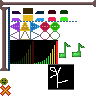
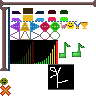
Persist high score

Changed region(s): [[0.625, 0.2188, 0.9375, 0.3125]]

diff --git a/src/main/highscore.c b/src/main/highscore.c
@@ -1,0 +1,124 @@
+#include "highscore.h"
+
+#if PO_NATIVE
+  #include <stdlib.h>
+  #include <stdio.h>
+  #include <fcntl.h>
+  #include <unistd.h>
+  #include <sys/stat.h>
+  
+#else
+  #include "tinysd.h"
+#endif
+
+/* Globals.
+ */
+ 
+/* Each record is:
+ *   u16 songid
+ *   u8 medal
+ *   u24 score
+ * big-endian
+ */
+#define RECORD_SIZE 6
+#define RECORD_LIMIT 10 /* Needn't be any more than the count of included songs. */
+static uint8_t highscore_content[RECORD_SIZE*RECORD_LIMIT];
+static uint8_t highscore_count=0; // in records
+
+/* Path for native builds.
+ */
+ 
+#if PO_NATIVE
+  static char highscore_path_storage[1024];
+  static const char *highscore_path() {
+    const char *home=getenv("HOME");
+    int c=snprintf(highscore_path_storage,sizeof(highscore_path_storage),"%s/.pocket-orchestra/highscore",home);
+    if ((c<1)||(c>=sizeof(highscore_path_storage))) return 0;
+    int slashp=c-1;
+    while (slashp&&(highscore_path_storage[slashp]!='/')) slashp--;
+    highscore_path_storage[slashp]=0;
+    mkdir(highscore_path_storage,0775);
+    highscore_path_storage[slashp]='/';
+    return highscore_path_storage;
+  }
+#endif
+
+/* Read from disk.
+ */
+ 
+static void highscore_load() {
+  #if PO_NATIVE
+    const char *path=highscore_path();
+    if (!path) return;
+    int fd=open(path,O_RDONLY);
+    if (fd<0) return;
+    int len=read(fd,highscore_content,sizeof(highscore_content));
+    close(fd);
+  #else
+    int32_t len=tinysd_read(highscore_content,sizeof(highscore_content),"/Pokorc/hiscore.bin");
+  #endif
+  if (len<0) len=0;
+  highscore_count=len/RECORD_SIZE;
+}
+
+/* Write to disk.
+ */
+ 
+static void highscore_save() {
+  #if PO_NATIVE
+    const char *path=highscore_path();
+    if (!path) return;
+    int fd=open(path,O_WRONLY|O_CREAT|O_TRUNC,0666);
+    if (fd<0) return;
+    write(fd,highscore_content,RECORD_SIZE*highscore_count);
+    close(fd);
+  #else
+    tinysd_write("/Pokorc/hiscore.bin",highscore_content,RECORD_SIZE*highscore_count);
+  #endif
+}
+
+/* Get one high score.
+ */
+ 
+void highscore_get(uint32_t *score,uint8_t *medal,uint16_t songid) {
+  if (!highscore_count) highscore_load();
+  const uint8_t *src=highscore_content;
+  uint8_t i=highscore_count;
+  for (;i-->0;src+=RECORD_SIZE) {
+    uint16_t id=(src[0]<<8)|src[1];
+    if (id!=songid) continue;
+    *medal=src[2];
+    *score=(src[3]<<16)|(src[4]<<8)|src[5];
+    return;
+  }
+  *medal=0;
+  *score=0;
+}
+
+/* Set one high score.
+ */
+ 
+void highscore_set(uint16_t songid,uint32_t score,uint8_t medal) {
+  if (!highscore_count) highscore_load();
+  uint8_t *src=highscore_content;
+  uint8_t i=highscore_count;
+  for (;i-->0;src+=RECORD_SIZE) {
+    uint16_t id=(src[0]<<8)|src[1];
+    if (id!=songid) continue;
+    src[2]=medal;
+    src[3]=score>>16;
+    src[4]=score>>8;
+    src[5]=score;
+    highscore_save();
+    return;
+  }
+  if (highscore_count>=RECORD_LIMIT) return; // oh no
+  src[0]=songid>>8;
+  src[1]=songid;
+  src[2]=medal;
+  src[3]=score>>16;
+  src[4]=score>>8;
+  src[5]=score;
+  highscore_count++;
+  highscore_save();
+}

diff --git a/src/main/game.c b/src/main/game.c
@@ -4,6 +4,7 @@
 #include "synth.h"
 #include "fakesheet.h"
 #include "dancer.h"
+#include "highscore.h"
 #include <string.h>
 #include <stdio.h>
 
@@ -21,6 +22,7 @@ struct score {
   // Derived at finalize:
   uint16_t histmax;
   uint16_t notec;
+  uint8_t medal;
 } score={0};
 
 static uint32_t lastsongtime=0;
@@ -59,6 +61,8 @@ static struct fakesheet *fakesheet=0;
 static uint8_t input=0;
 static uint8_t complete=0;
 static uint8_t pending_complete=0;
+static uint32_t highscore=0;
+static uint16_t songid=0;
 
 /* Scoring.
  */
@@ -121,6 +125,23 @@ static void finalize_score() {
   const uint16_t *v=score.hist;
   uint8_t i=11;
   for (;i-->0;v++) if (*v>score.histmax) score.histmax=*v;
+  
+  if ((score.hitc==score.notec)&&!score.missc&&!score.overlookc&&(score.hist[10]==score.hitc)) {
+    score.medal=HIGHSCORE_MEDAL_CUP;
+  } else if ((score.hitc==score.notec)&&!score.missc&&!score.overlookc) {
+    score.medal=HIGHSCORE_MEDAL_RIBBON;
+  } else if (score.hitc>score.missc+score.overlookc) {
+    score.medal=HIGHSCORE_MEDAL_PARTICIPANT;
+  } else {
+    score.medal=HIGHSCORE_MEDAL_TURKEY;
+  }
+  
+  uint8_t pvmedal=0;
+  highscore_get(&highscore,&pvmedal,songid);
+  if ((score.total>highscore)||(!score.total&&!highscore)) { // if it's zero, do save it (so it's not marked "unplayed")
+    fprintf(stderr,"*** new high score! %d(%d) > %d(%d)\n",score.total,score.medal,highscore,pvmedal);
+    highscore_set(songid,score.total,score.medal);
+  }
 }
 
 static uint8_t calculate_score_quality() {
@@ -217,6 +238,7 @@ void game_begin(
   input=0;
   complete=0;
   pending_complete=0;
+  songid=songinfo->songid;
   memset(&score,0,sizeof(score));
   
   struct toast *toast=toastv;
@@ -478,7 +500,15 @@ static void draw_final_report(struct image *fb) {
   image_blit_string(fb,5,y,buf,bufc,0xffff,font);
   y+=9;
   
-  //TODO show all-time high. maybe eliminate the buttons
+  if (score.total>highscore) {
+    bufc=snprintf(buf,sizeof(buf),"HIGH SCORE!");
+    image_blit_string(fb,5,y,buf,bufc,0xff07,font);
+    y+=9;
+  } else {
+    bufc=snprintf(buf,sizeof(buf),"High: %d",highscore);
+    image_blit_string(fb,5,y,buf,bufc,0xffff,font);
+    y+=9;
+  }
 }
 
 /* Render.
@@ -515,13 +545,15 @@ void game_render(struct image *fb) {
   }
   
   // 5 button indicators.
-  #define BTN(ix,tag) image_blit_colorkey(fb,3+ix*12,56,&bits,10+ix*12,7+((input&BUTTON_##tag)?7:0),12,7);
-  BTN(0,LEFT)
-  BTN(1,UP)
-  BTN(2,RIGHT)
-  BTN(3,B)
-  BTN(4,A)
-  #undef BTN
+  if (!complete) {
+    #define BTN(ix,tag) image_blit_colorkey(fb,3+ix*12,56,&bits,10+ix*12,7+((input&BUTTON_##tag)?7:0),12,7);
+    BTN(0,LEFT)
+    BTN(1,UP)
+    BTN(2,RIGHT)
+    BTN(3,B)
+    BTN(4,A)
+    #undef BTN
+  }
   
   // Fireworks.
   if (!complete) {

diff --git a/src/main/menu.c b/src/main/menu.c
@@ -1,16 +1,24 @@
 #include "menu.h"
 #include "data.h"
+#include "highscore.h"
 #include <string.h>
 
 /* Globals.
  */
  
 static int8_t menup=0;
+static uint8_t medalv[16];
 
 /* Init.
  */
  
 void menu_init() {
+  memset(medalv,0,sizeof(medalv));
+  uint8_t i=0;
+  for (;i<songinfoc;i++) {
+    uint32_t score=0;
+    highscore_get(&score,medalv+i,songinfov[i].songid);
+  }
 }
 
 /* Move selection.
@@ -43,12 +51,15 @@ const struct songinfo *menu_input(uint8_t input,uint8_t pvinput) {
  
 void menu_update(struct image *fb) {
   memset(fb->v,0,fb->w*fb->h*2);
-  //image_blit_string(fb,5,5,"Hello cruel world!",-1,0xffff,font);
-  int16_t x=1,y=0;
+  int16_t x=9,y=0;
   uint8_t i=0;
-  for (;i<songinfoc;i++,y+=9) {
+  const uint8_t *medal=medalv;
+  for (;i<songinfoc;i++,y+=9,medal++) {
     const struct songinfo *songinfo=songinfov+i;
     uint16_t color=(i==menup)?0xff07:0x1084;
     image_blit_string(fb,x,y,songinfo->name,-1,color,font);
+    if ((*medal>=1)&&(*medal<=4)) {
+      image_blit_colorkey(fb,0,y+1,&bits,60+((*medal)-1)*7,22,7,7);
+    }
   }
 }

diff --git a/src/main/tinysd.cpp b/src/main/tinysd.cpp
@@ -1,0 +1,31 @@
+#include <SD.h>
+#include "tinysd.h"
+
+static uint8_t sdinit=0;
+
+static int8_t tinysd_require() {
+  if (!sdinit) {
+    if (SD.begin()<0) return -1;
+    sdinit=1;
+  }
+  return 0;
+}
+
+int32_t tinysd_read(void *dst,int32_t dsta,const char *path) {
+  if (tinysd_require()<0) return -1;
+  File file=SD.open(path);
+  if (!file) return -1;
+  int32_t dstc=file.read(dst,dsta);
+  file.close();
+  return dstc;
+}
+
+int32_t tinysd_write(const char *path,const void *src,int32_t srcc) {
+  if (tinysd_require()<0) return -1;
+  File file=SD.open(path,O_RDWR|O_CREAT);
+  if (!file) return -1;
+  size_t err=file.write((const uint8_t*)src,(size_t)srcc);
+  file.close();
+  if (err<0) return -1;
+  return 0;
+}

diff --git a/src/main/highscore.h b/src/main/highscore.h
@@ -1,0 +1,20 @@
+/* highscore.h
+ * Access to persisted high scores file.
+ * Each song has a 16-bit id, 24-bit high score, and 8-bit medal.
+ */
+ 
+#ifndef HIGHSCORE_H
+#define HIGHSCORE_H
+
+#include <stdint.h>
+
+#define HIGHSCORE_MEDAL_NONE        0 /* Never played it. */
+#define HIGHSCORE_MEDAL_TURKEY      1 /* Played with lots of mistakes. */
+#define HIGHSCORE_MEDAL_PARTICIPANT 2 /* Played with few mistakes. */
+#define HIGHSCORE_MEDAL_RIBBON      3 /* Played without mistakes. */
+#define HIGHSCORE_MEDAL_CUP         4 /* Played perfect. */
+
+void highscore_get(uint32_t *score,uint8_t *medal,uint16_t songid);
+void highscore_set(uint16_t songid,uint32_t score,uint8_t medal);
+
+#endif

diff --git a/src/main/data.c b/src/main/data.c
@@ -9,16 +9,19 @@ const struct songinfo songinfov[]={
     .song=tinylamb,
     .name="Mary Had a Tiny Lamb",
     .dancerid=DANCER_ID_MARY,
+    .songid=1,
   },
   {
     .song=goatpotion,
     .name="Goat Potion",
     .dancerid=DANCER_ID_RACCOON,
+    .songid=2,
   },
   {
     .song=inversegamma,
     .name="Inverse Gamma",
     .dancerid=DANCER_ID_ASTRONAUT,
+    .songid=3,
   },
 };
 

diff --git a/src/main/tinysd.h b/src/main/tinysd.h
@@ -1,0 +1,19 @@
+/* tinysd.h
+ * Wrapper around SD lib with C linkage.
+ */
+ 
+#ifndef TINYSD_H
+#define TINYSD_H
+
+#ifdef __cplusplus
+extern "C" {
+#endif
+
+int32_t tinysd_read(void *dst,int32_t dsta,const char *path);
+int32_t tinysd_write(const char *path,const void *src,int32_t srcc);
+
+#ifdef __cplusplus
+}
+#endif
+
+#endif

diff --git a/src/opt/tiny/tiny.c b/src/opt/tiny/tiny.c
@@ -327,6 +327,7 @@ static void clearWindow(uint8_t x, uint8_t y, uint8_t w, uint8_t h) {
 uint8_t platform_init() {
 
   Wire_begin();
+  usb_begin();
 
   spi_begin();
   sercom_setClockModeSPI(spisc,SERCOM_SPI_MODE_0);

diff --git a/src/main/data.h b/src/main/data.h
@@ -30,6 +30,7 @@ extern const struct songinfo {
   const uint8_t *song;
   const char *name;
   uint8_t dancerid;
+  uint16_t songid; // for high scores
 } songinfov[];
 extern const uint8_t songinfoc;
 

diff --git a/README.md b/README.md
@@ -10,8 +10,8 @@
 - - There's three levels of combo multiplier. The second and third are too close together.
 - - xxx Extra fireworks when you reach the next multiplier. meh
 - [x] Fireworks
-- [ ] Persist high scores
-- - [ ] Medal per song: None, Turkey, Ribbon, Cup
+- [x] Persist high scores
+- - [x] Medal per song: None, Turkey, Ribbon, Cup
 - [ ] MacOS drivers
 - [ ] Windows drivers
 - [x] Tiny menu thumbnail
